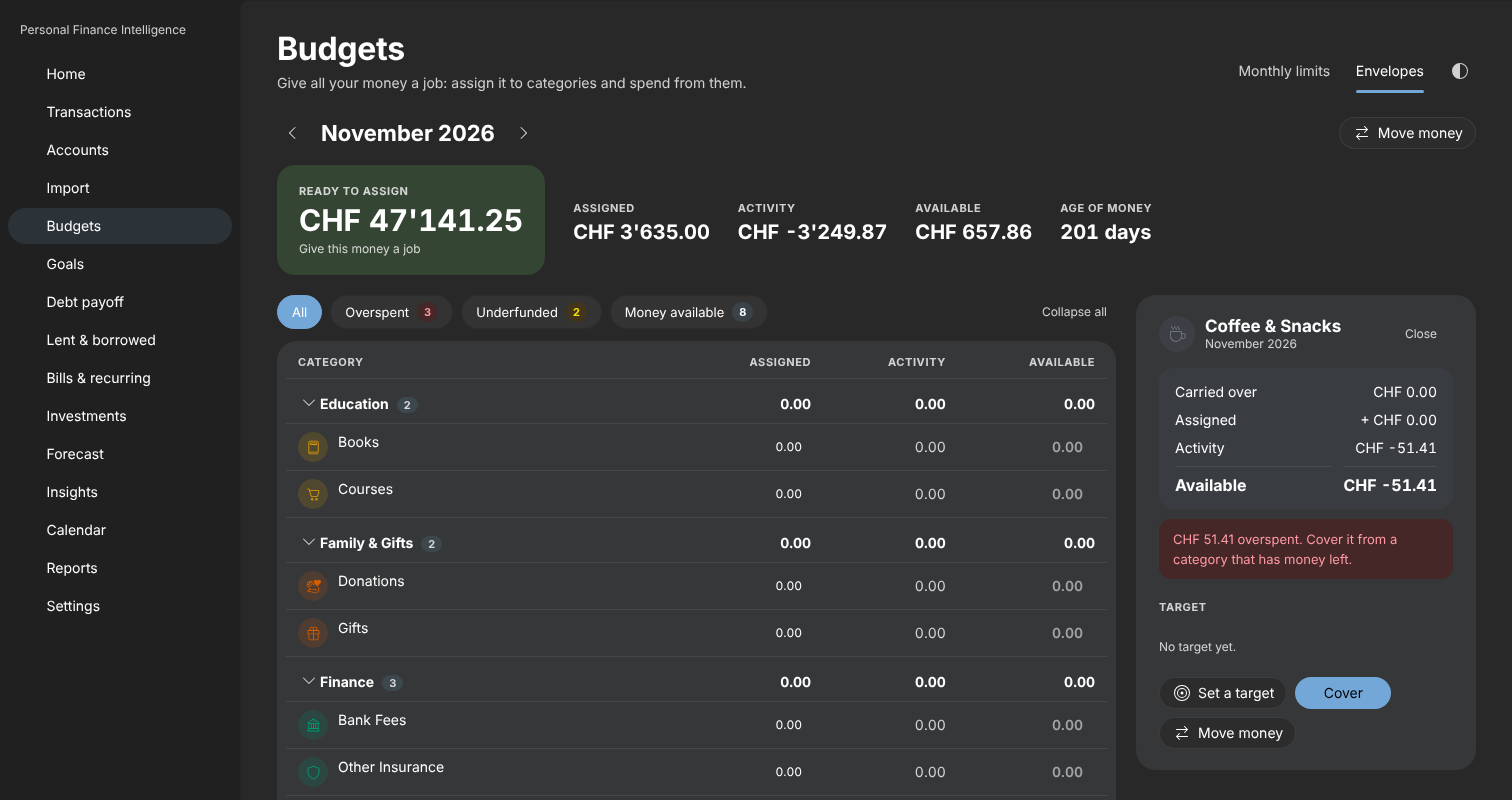
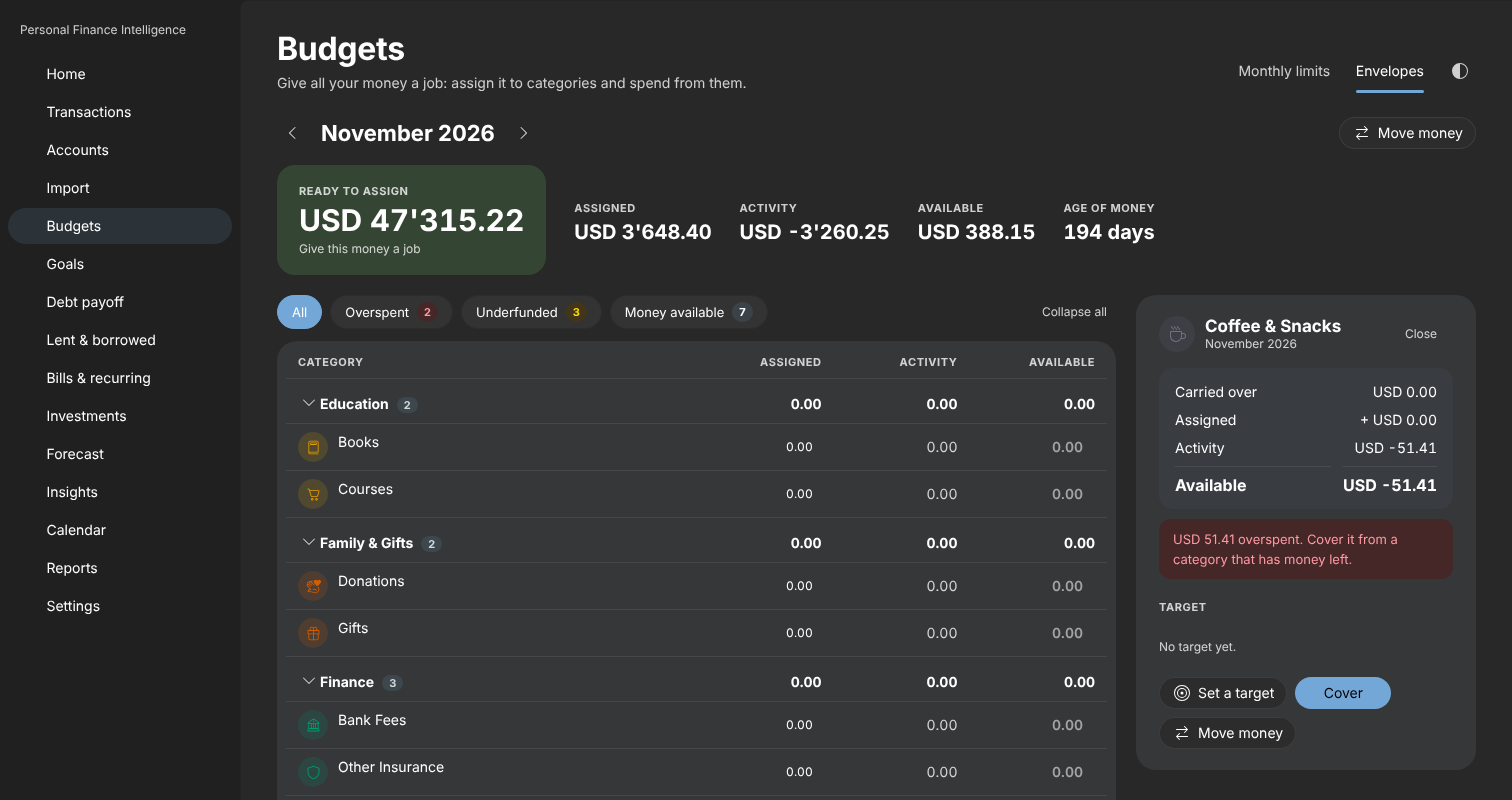
feat: USD as the default currency
New installs, the phone app and the demo data use US dollars (the demo has
American shops and USD holdings, with rates both ways so it also adds up in
CHF or EUR). Existing databases keep their currency. Screenshots and the
website show USD. Also: a damaged backup that fails decompression is
reported as damaged instead of an internal error.

Claude-Session: https://claude.ai/code/session_01MnZqb9jp3ucygUY9NmUqQ9

diff --git a/docs/index.html b/docs/index.html
@@ -65,7 +65,7 @@
     <div class="hero-text">
       <p class="eyebrow">Personal Finance Intelligence 0.7.1</p>
       <h1>Download PFI</h1>
-      <p class="lead">The free budget app for Windows and Android. Plan every franc, import your bank
+      <p class="lead">The free budget app for Windows and Android. Plan every dollar, import your bank
         statements and see where your money goes, without an account and without a cloud server.</p>
       <div class="cta">
         <a class="btn primary" href="https://apps.microsoft.com/detail/9MZKW4H9F0J5?mode=direct">Download for Windows</a>
@@ -88,7 +88,7 @@
 
 <section id="features">
   <div class="wrap">
-    <h2 class="center">Give every franc a job, on your own devices</h2>
+    <h2 class="center">Give every dollar a job, on your own devices</h2>
     <div class="feat3">
       <article class="fcard"><img src="img/f-budget.webp" width="1000" height="625" loading="lazy" alt="Envelope budget with groups, progress bars and a side panel">
         <h3>Budget with envelopes</h3><p>Assign your money to categories, see what is overspent or underfunded at a glance and fund your targets in one click.</p></article>
@@ -103,7 +103,7 @@
       <div><strong>Investments</strong><span>Money- and time-weighted returns, dividends, allocation.</span></div>
       <div><strong>Spending calendar</strong><span>A heatmap of every day and your year in review.</span></div>
       <div><strong>Fast entry</strong><span>Quick add with Ctrl+N, inline edits, bulk edit, search filters.</span></div>
-      <div><strong>Any currency</strong><span>CHF, EUR, MAD, USD… with daily exchange rates.</span></div>
+      <div><strong>Any currency</strong><span>USD, EUR, GBP, CHF, MAD… with daily exchange rates.</span></div>
     </div>
   </div>
 </section>

diff --git a/frontend/app/goals/page.tsx b/frontend/app/goals/page.tsx
@@ -75,7 +75,7 @@ export default function Goals() {
             initial={g ? { name: g.name, target_amount: g.target_amount, currency: g.currency,
               target_date: g.target_date, account_id: g.account_id, saved_amount: g.manual_saved_amount,
               priority: g.priority, notes: g.notes }
-              : { name: "", target_amount: "", currency: refs.data?.settings.base_currency ?? "CHF",
+              : { name: "", target_amount: "", currency: refs.data?.settings.base_currency ?? "USD",
                 target_date: "", account_id: "", saved_amount: "0", priority: 0, notes: "" }}
             fields={[
               { name: "name", label: t("Name"), required: true, full: true },

diff --git a/frontend/app/investments/page.tsx b/frontend/app/investments/page.tsx
@@ -76,7 +76,7 @@ export default function Investments() {
   const [msg, setMsg] = useState<{ kind: "success" | "info" | "warning" | "error"; text: string } | null>(null);
   const [busy, setBusy] = useState(false);
   const reload = () => { holdings.reload(); perf.reload(); alloc.reload(); refs.reload(); };
-  const base = refs.data?.settings.base_currency ?? "CHF";
+  const base = refs.data?.settings.base_currency ?? "USD";
   const invAccounts = accountOptions(refs.data?.accounts ?? [], (a) => a.type === "investment");
   const hs = holdings.data ?? [];
   const sum = (k: keyof Holding) => hs.reduce((s, h) => s + ((h[k] as number | null) ?? 0), 0);

diff --git a/frontend/app/accounts/page.tsx b/frontend/app/accounts/page.tsx
@@ -27,7 +27,7 @@ export default function Accounts() {
   const [recon, setRecon] = useState<Account | null>(null);
   const [msg, setMsg] = useState<string | null>(null);
   const [showArchived, setShowArchived] = useState(false);
-  const base = refs.data?.settings.base_currency ?? "CHF";
+  const base = refs.data?.settings.base_currency ?? "USD";
   const accounts = (refs.data?.accounts ?? []).filter((a) => showArchived || !a.is_archived);
   const total = (types: string[]) => accounts.filter((a) => types.includes(a.type))
     .reduce((s, a) => s + (a.balance_base ?? 0) + a.holdings_base, 0);

diff --git a/frontend/app/settings/page.tsx b/frontend/app/settings/page.tsx
@@ -406,7 +406,7 @@ export default function SettingsPage() {
       {rateModal && (
         <FormModal title={t("Add exchange rate")} onClose={() => setRateModal(false)}
           initial={{ rate_date: today(), from_currency: missing.data?.missing[0] ?? "EUR",
-            to_currency: s?.base_currency ?? "CHF", rate: "" }}
+            to_currency: s?.base_currency ?? "USD", rate: "" }}
           fields={[
             { name: "rate_date", label: t("Valid from"), type: "date", required: true },
             { name: "rate", label: t("Rate"), type: "number", step: "any", required: true,

diff --git a/frontend/lib/format.ts b/frontend/lib/format.ts
@@ -67,7 +67,7 @@ export const FREQUENCIES: Record<string, string> = {
   weekly: "Weekly", biweekly: "Every 2 weeks", monthly: "Monthly",
   quarterly: "Quarterly", yearly: "Yearly",
 };
-export const CURRENCIES = ["CHF", "EUR", "MAD", "USD", "GBP", "JPY", "CAD",
+export const CURRENCIES = ["USD", "EUR", "GBP", "CHF", "MAD", "JPY", "CAD",
   "SEK", "NOK", "DKK", "PLN", "CZK", "AUD", "CNY", "TRY", "AED", "SAR"];
 
 /** File size for people: "820 KB", "1.4 MB", "1.2 GB". */

diff --git a/frontend/app/debts/page.tsx b/frontend/app/debts/page.tsx
@@ -47,7 +47,7 @@ export default function Debts() {
   const plan = useLoad(() => post<DebtPlan>("/api/debts/plan", { extra: extraNum.toFixed(2) }),
     [extraNum, debts.data]);
   const p = plan.data;
-  const cur = debts.data?.currency ?? "CHF";
+  const cur = debts.data?.currency ?? "USD";
   const owing = (debts.data?.debts ?? []).filter((d) => d.owed > 0);
   const missingTerms = owing.filter((d) => !d.has_terms);
   const figure = useMemo<PlotFigure | null>(() => {

diff --git a/frontend/app/import/page.tsx b/frontend/app/import/page.tsx
@@ -307,7 +307,7 @@ export default function Import() {
           { n: undo.rows_imported, f: undo.filename })}
         onYes={async () => { await del(`/api/import/batches/${undo.id}`); batches.reload(); }} />}
       <div style={{ marginTop: 16 }}>
-        <YnabImport baseCurrency={refs.data?.settings.base_currency ?? "CHF"} />
+        <YnabImport baseCurrency={refs.data?.settings.base_currency ?? "USD"} />
       </div>
     </>
   );

diff --git a/frontend/app/recurring/page.tsx b/frontend/app/recurring/page.tsx
@@ -31,7 +31,7 @@ export default function RecurringPage() {
   const active = (rec.data ?? []).filter((r) => r.is_active);
   const monthly = (sign: number) => active.filter((r) => Math.sign(r.amount) === sign)
     .reduce((s, r) => s + Math.abs(r.amount) * PER_MONTH[r.frequency], 0);
-  const base = refs.data?.settings.base_currency ?? "CHF";
+  const base = refs.data?.settings.base_currency ?? "USD";
 
   return (
     <>

diff --git a/frontend/app/page.tsx b/frontend/app/page.tsx
@@ -109,7 +109,7 @@ export default function Home() {
   const [seeding, setSeeding] = useState(false);
   const [restoreError, setRestoreError] = useState<string | null>(null);
   const s = dash.data?.summary;
-  const cur = s?.currency ?? "CHF";
+  const cur = s?.currency ?? "USD";
   const empty = s && s.transactions === 0 && s.net_worth === 0;
 
   const renderCard = (id: HomeCardId): ReactNode => {

diff --git a/frontend/app/reports/page.tsx b/frontend/app/reports/page.tsx
@@ -30,7 +30,7 @@ export default function Reports() {
     ? get<{ base_currency: string; items: { tag: string; spent: number; received: number; transactions: number }[] }>("/api/analytics/tags")
     : Promise.resolve(null), [tab]);
   const r = rep.data;
-  const cur = r?.currency ?? "CHF";
+  const cur = r?.currency ?? "USD";
 
   const nwFig: PlotFigure | null = nw.data ? {
     data: [

diff --git a/frontend/app/ious/page.tsx b/frontend/app/ious/page.tsx
@@ -24,7 +24,7 @@ export default function Ious() {
   const [remove, setRemove] = useState<Iou | null>(null);
   const d = data.data;
   const cur = d?.currency ?? "";
-  const base = refs.data?.settings.base_currency ?? "CHF";
+  const base = refs.data?.settings.base_currency ?? "USD";
   const items = (d?.items ?? []).filter((i) => (show === "open") === !i.settled_on);
 
   return (
